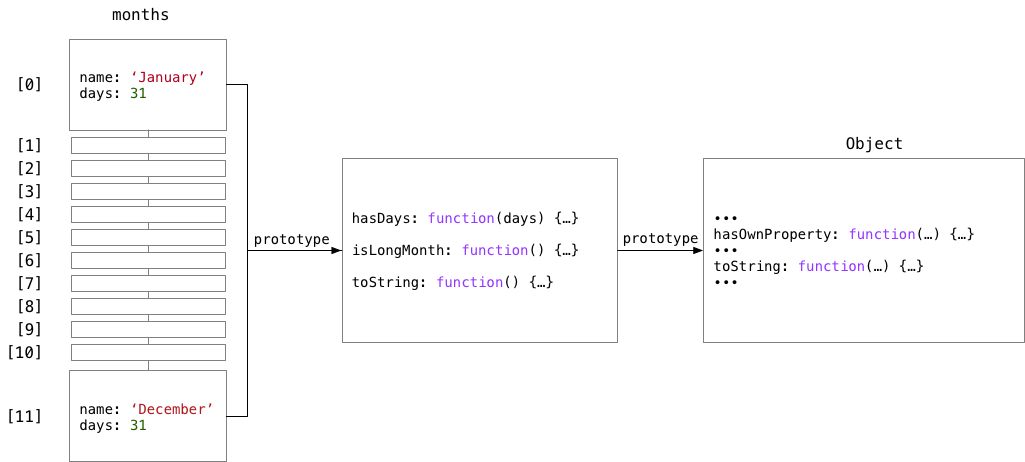
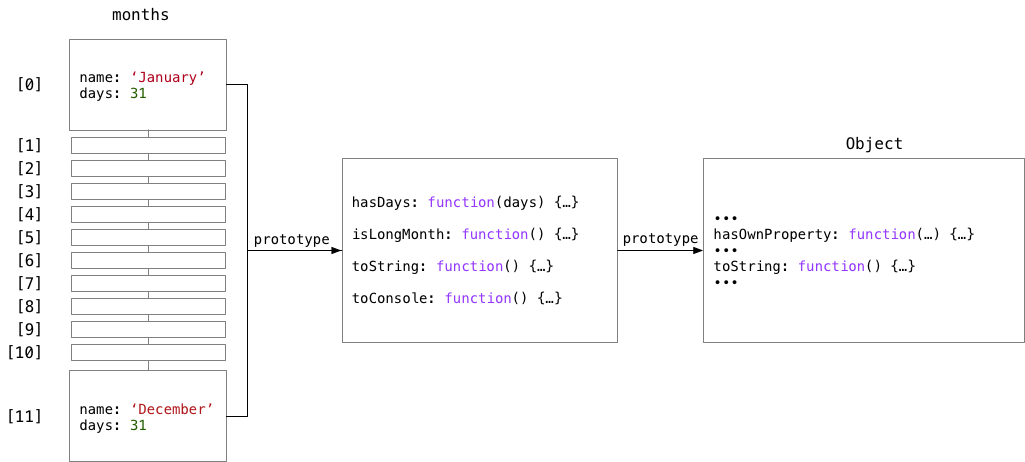
OOP fundamental wip

Changed region(s): [[0.3434, 0.4242, 0.562, 0.6667], [0.8429, 0.5455, 0.9054, 0.6061]]

diff --git a/fundamentals/oop_classes.md b/fundamentals/oop_classes.md
@@ -1,6 +1,13 @@
 # Object-Oriented Programming & Classes
 
-### Object literals and Functional Programming
+### Object literals and Imperative Programming
+
+In earlier JavaScript lectures we saw that we can define object literals and use functions to access and manipulate their properties. A typical example is shown below, where have defined an array of objects, in this case each representing the name of a month and its associated number of days.
+
+We're looping through the month and printing a message to the console for each month with 31 days.
+
+This style of programming is called Imperative Programming: we instruct the computer how to perform the task(s) at hand.
+
 ```js
 const months = [
   { name: 'January', days: 31 },
@@ -17,15 +24,48 @@ const months = [
   { name: 'December', days: 31 }
 ];
 
-const isLongMonth = month => month.days === 31;
-const toString = month => month.name + ' has ' + month.days + ' days.';
+for (const month of months) {
+  if (month.days === 31) {
+    console.log(`${month.name} has ${month.days} days.`);
+  }
+}
+```
 
-const longMonths = months.filter(isLongMonth);
-const strings = longMonths.map(toString);
-strings.forEach(string => console.log(string));
+## Functional Programming
+
+In the Functional Programming style (also referred to as Declarative Programming), we prefer to declare what the computer should do.
+
+In the next example we have used the `filter` method to extract a subset of months with 31 days, used the `map` method to create an informational string about each month and a `forEach` method to output those strings to the console.
+
+Put in other words, we state or declare that the computer should **filter** our array according to some defined criterion, then it should **map** the filtered object to string and print out each string to the console. In contrast to the imperative style we do not have to infer from looking at the code what we are actually doing. Instead, the names of out functions and methods already imply what it is we want to achieve.
+
+```js
+const months = [
+  { name: 'January', days: 31 },
+  { name: 'February', days: 28 },
+  { name: 'March', days: 31 },
+  { name: 'April', days: 30 },
+  { name: 'May', days: 31 },
+  { name: 'June', days: 30 },
+  { name: 'July', days: 31 },
+  { name: 'August', days: 31 },
+  { name: 'September', days: 30 },
+  { name: 'October', days: 31 },
+  { name: 'November', days: 30 },
+  { name: 'December', days: 31 }
+];
+
+months
+  .filter(month => month.days === 31)
+  .map(month => `${month.name} has ${month.days} days.`)
+  .forEach(string => console.log(string));
 ```
 
 ### ES6 Classes and Object-Oriented Programming
+
+The remaining style of programming we will discuss here is called Object-Oriented Programming. 
+
+TO BE CONTINUED
 
 ```js
 class Month {
@@ -45,6 +85,10 @@ class Month {
   toString() {
     return `${this.name} has ${this.days} days.`;
   }
+
+  toConsole() {
+    console.log(this.toString());
+  }
 }
 
 const months = [
@@ -62,8 +106,9 @@ const months = [
   new Month('December', 31)
 ];
 
-const longMonths = months.filter(month => month.isLongMonth());
-longMonths.forEach(month => console.log(month.toString()));
+months
+  .filter(month => month.isLongMonth())
+  .forEach(month => month.toConsole());
 ```
 
 ### The prototype chain
@@ -90,6 +135,10 @@ Month.prototype.toString = function () {
   return `${this.name} has ${this.days} days.`;
 };
 
+Month.prototype.toConsole = function () {
+  console.log(this.toString());
+}
+
 const months = [
   new Month('January', 31),
   new Month('February', 28),
@@ -105,8 +154,9 @@ const months = [
   new Month('December', 31)
 ];
 
-const longMonths = months.filter(month => month.isLongMonth());
-longMonths.forEach(month => console.log(month.toString()));
+months
+  .filter(month => month.isLongMonth())
+  .forEach(month => month.toConsole());
 ```
 
 ### Bonus: Array.prototype.map & Array.prototype.filter implementations
